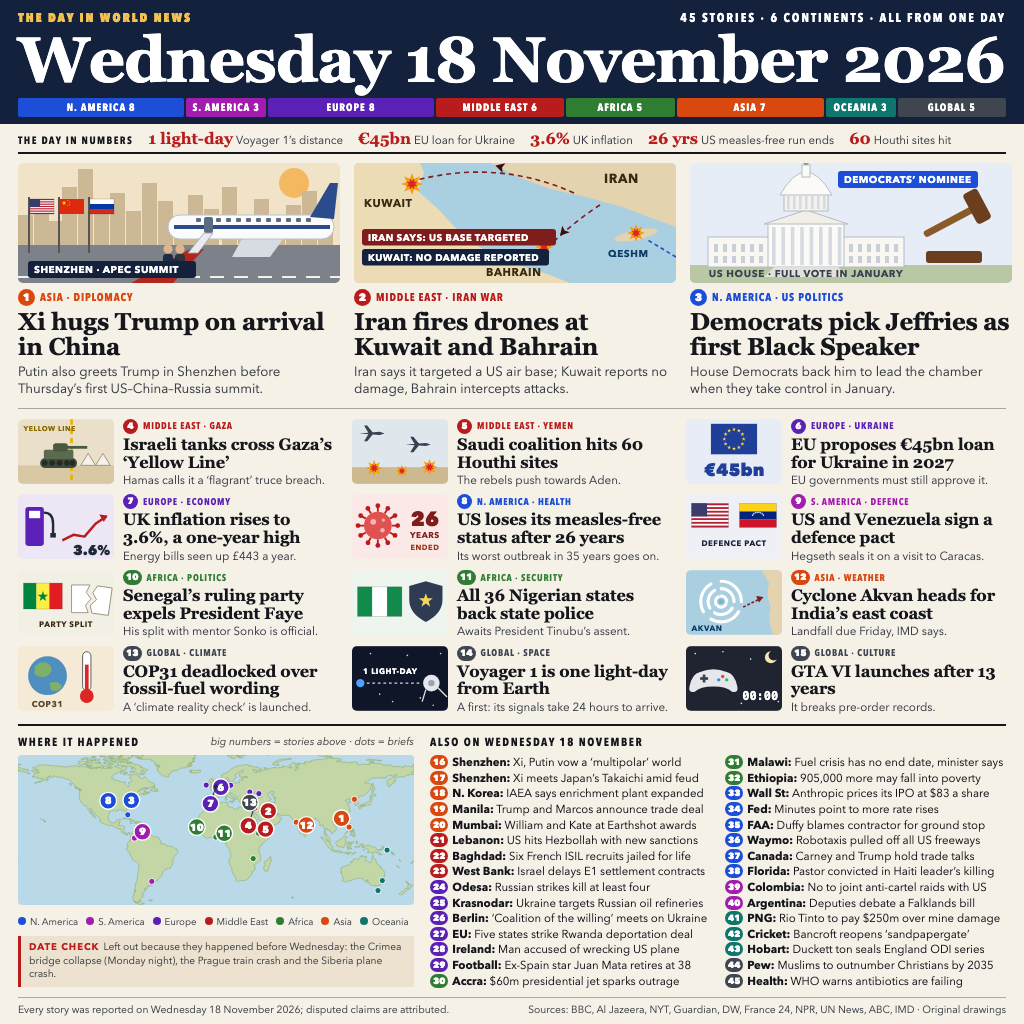
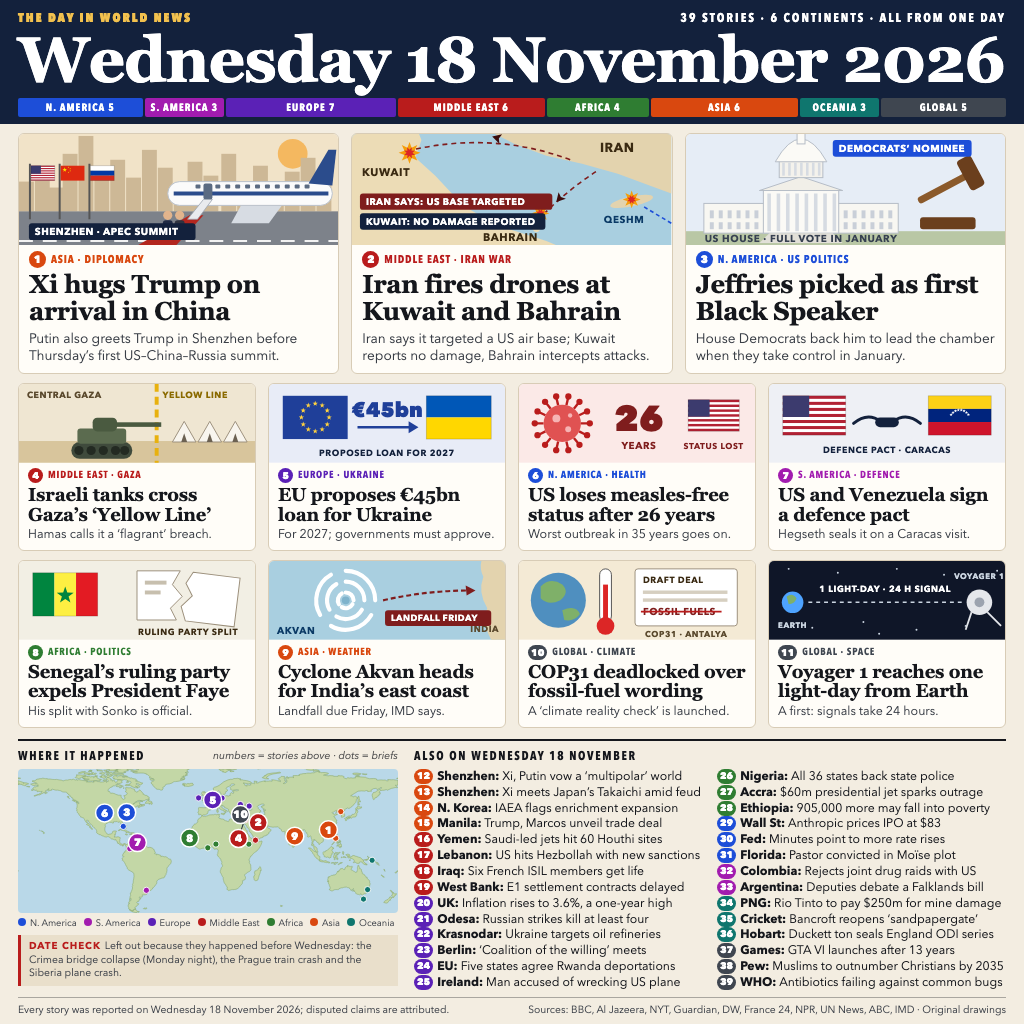
v5: fewer, larger stories: 3 lead cards, 8 wide illustrated tiles, 28 readable briefs, bigger map

diff --git a/README.md b/README.md
@@ -4,7 +4,7 @@
 [![rank](https://make.fun/badge/news-image-20261118/GAD2412/news-image-20261118/rank.svg)](https://make.fun/bounty/news-image-20261118/leaderboard?utm_source=github&utm_medium=readme&utm_campaign=news-image-20261118)
 [![reward](https://make.fun/badge/news-image-20261118/GAD2412/news-image-20261118/reward.svg)](https://make.fun/bounty/news-image-20261118?utm_source=github&utm_medium=readme&utm_campaign=news-image-20261118)
 
-A 1024×1024 front page of the world's news on Wednesday 18 November 2026: 45 numbered stories from six continents, with a story count for each region, the day in numbers, 15 original flat illustrations, attributed claims, a date check and a world map that pins each numbered story where it happened. `main.ts` (Node 22, standard library only, no network) writes the committed `entry.png` to `/output`, so every run produces the same bytes.
+A 1024×1024 front page of the world's news on Wednesday 18 November 2026: 39 numbered stories from six continents, the 11 biggest drawn as original flat illustrations, with a story count for each region, attributed claims, a date check and a world map that pins each story where it happened. `main.ts` (Node 22, standard library only, no network) writes the committed `entry.png` to `/output`, so every run produces the same bytes.
 
 ## Run it
 
@@ -14,7 +14,7 @@ mkdir -p out && MAKEFUN_OUTPUT_DIR=out node main.ts
 
 ## How the image is made
 
-- `stories.json` holds every headline, deck, region and map pin, each with a link to the report it came from, plus the figures strip and the date-check note.
+- `stories.json` holds every headline, deck, region and map pin, each with a link to the report it came from, plus the date-check note.
 - `build.mjs` numbers every story, lays it out as an HTML page with hand-drawn SVG art, stops if any text spills past the footer or is cut short, and screenshots the page once with headless Google Chrome into `entry.png`.
 - The map's land shapes come from [Natural Earth](https://www.naturalearthdata.com/)'s public-domain 110m land outline (`ne_110m_land.geojson`), which is read at build time and not stored here:
 
